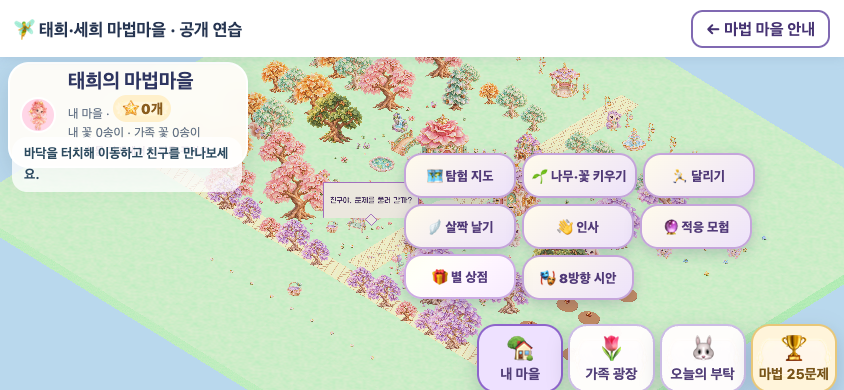
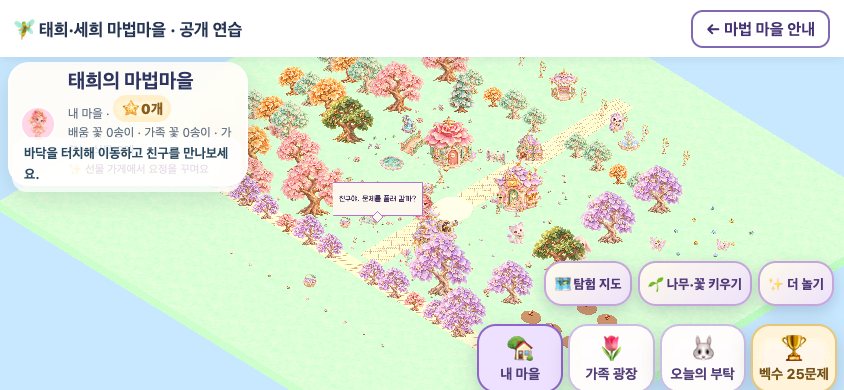
feat: simplify village controls and show garden care reactions

diff --git a/app.js b/app.js
@@ -73,7 +73,7 @@ function header(){const p=currentLearner(),w=wallet();return `<header class="hea
 function footer(){return `<footer class="footer"><span>내 속도로, 한 번의 발견씩 ✦</span><button data-action="parents">보호자 안내</button></footer>`;}
 function gameCard(g){const record=overview().games.find(r=>r.id===g.id);return `<article class="game-card ${g.subject}"><div class="game-top"><div class="game-icon" aria-hidden="true">${esc(g.emoji)}</div><span class="subject-label">${SUBJECTS[g.subject].name} · ${esc(g.levelLabel)}</span></div><h3>${esc(g.title)}</h3><p class="game-desc">${esc(g.description)}</p><p class="mode-badges">${g.modes?g.modes.map(m=>esc(ActivityUI.MODE_LABELS[m])).join(' · '):'단위와 비율'}</p>${g.kind==='external'?`<a class="game-launch" href="${esc(g.url)}" data-external="${g.id}">${record.resume?'이어서 놀기':'놀러 가기'}</a>`:`<button class="game-launch" data-action="play" data-game="${g.id}" ${loading?'disabled':''}>${record.resume?'이어서 놀기':'시작하기'}</button>`}<p class="game-progress">${record.started?`⭐ ${record.stars} · ${record.mastered}개의 발견`:`한 판 ${g.kind==='external'?5:currentLearner().roundSize}문제 · 천천히 해도 돼`}</p></article>`;}
 function recommendedAdventures(){return ['math','korean','english'].flatMap(subject=>{const rec=Growth.recommendation(subject,catalog),stage=rec.canAdvance?rec.suggestedStage:rec.stage;let list=adventures().filter(g=>g.adventure&&g.subject===subject&&g.minStage<=stage&&g.maxStage>=stage);if(!list.length)list=adventures().filter(g=>g.adventure&&g.subject===subject&&g.minStage<=stage);list.sort((a,b)=>{const pa=Progress.gameProgress(a.id),pb=Progress.gameProgress(b.id);return Number(Boolean(pb.round&&!pb.round.finished))-Number(Boolean(pa.round&&!pa.round.finished))||pa.lastPlayed-pb.lastPlayed||a.id.localeCompare(b.id);});return list.length?[list[themeOffset%list.length]]:[];});}
-function home(){let games=(showAll?adventures():recommendedAdventures()).filter(g=>(filter==='all'||g.subject===filter)&&(modeFilter==='all'||!showAll||g.modes?.includes(modeFilter)));const size=pageSize();page=Math.min(page,Math.max(0,Math.ceil(games.length/size)-1));const w=wallet(),next=AWARDS.find(a=>a.stars>w.lifetime);return `<section class="home-screen screen"><div class="section-top"><div><h1 tabindex="-1">${currentLearner().name}의 ${showAll?'놀이 보물지도':'오늘의 모험'}</h1><p class="place-line">🏡 ${esc(Settings.getSettings()[Progress.learner()].place)}에서 이어지는 놀이</p></div><button class="text-button" data-action="all-games">${showAll?'오늘의 모험':'모두 보기'}</button></div><a class="village-launch village-launch-kma" href="./magic-village-kma-v06/village/?v=20261011-garden-v07" aria-label="벡수 경시대회 공개 원본 25문항 마법마을 열기"><span class="village-launch-icon" aria-hidden="true">🏆</span><span class="village-launch-copy"><strong>${currentLearner().name}의 벡수 경시대회 마법마을</strong><small>KMA 공개 기출 · 학년별 1~25번 · 별 보상 · 탐험·나무·꽃 가꾸기 · v0.7</small></span><span class="village-launch-arrow" aria-hidden="true">↗</span></a><a class="village-launch" href="./magic-village-v06/village/?v=20261011-garden-v07" aria-label="새 마법마을 v0.7 3D 연습판 열기"><span class="village-launch-icon" aria-hidden="true">🧚</span><span class="village-launch-copy"><strong>${currentLearner().name}의 3D 마법마을</strong><small>동물 친구·별 상점·적응형 학습·나무·꽃 가꾸기 · 공개 연습 수학 25문제 · v0.7</small></span><span class="village-launch-arrow" aria-hidden="true">↗</span></a><div class="filters" aria-label="과목 고르기">${Object.entries(SUBJECTS).map(([id,s])=>`<button class="filter" data-action="filter" data-subject="${id}" aria-pressed="${filter===id}">${s.emoji} ${s.name}</button>`).join('')}</div>${showAll?`<div class="mode-select"><label for="mode-select">놀이 방법</label><select id="mode-select">${[['all','모든 놀이'],...Object.entries(ActivityUI.MODE_LABELS).filter(([id])=>adventures().some(g=>g.modes?.includes(id)))].map(([id,label])=>`<option value="${id}" ${modeFilter===id?'selected':''}>${label}</option>`).join('')}</select><span>${games.length}가지</span></div>`:''}<div class="games-grid">${games.slice(page*size,(page+1)*size).map(gameCard).join('')||'<p class="empty">다른 과목이나 놀이 방법을 골라 봐!</p>'}</div><div class="home-tools">${pages(games.length,size,page,'game-page')}${!showAll?'<button class="secondary" data-action="other-adventure">다른 모험</button>':''}<button class="secondary" data-action="growth">차근차근 배우기</button></div><button class="reward-preview-link" data-action="collection"><span>⭐ 모은 별 ${w.lifetime} · 쓸 수 있는 별 ${w.available}</span><span>${next?`다음 별자리: ${next.name}`:'내 별자리가 반짝여!'}</span></button></section>`;}
+function home(){let games=(showAll?adventures():recommendedAdventures()).filter(g=>(filter==='all'||g.subject===filter)&&(modeFilter==='all'||!showAll||g.modes?.includes(modeFilter)));const size=pageSize();page=Math.min(page,Math.max(0,Math.ceil(games.length/size)-1));const w=wallet(),next=AWARDS.find(a=>a.stars>w.lifetime);return `<section class="home-screen screen"><div class="section-top"><div><h1 tabindex="-1">${currentLearner().name}의 ${showAll?'놀이 보물지도':'오늘의 모험'}</h1><p class="place-line">🏡 ${esc(Settings.getSettings()[Progress.learner()].place)}에서 이어지는 놀이</p></div><button class="text-button" data-action="all-games">${showAll?'오늘의 모험':'모두 보기'}</button></div><a class="village-launch village-launch-kma" href="./magic-village-kma-v06/village/?v=20261011-garden-v071" aria-label="벡수 경시대회 공개 원본 25문항 마법마을 열기"><span class="village-launch-icon" aria-hidden="true">🏆</span><span class="village-launch-copy"><strong>${currentLearner().name}의 벡수 경시대회 마법마을</strong><small>KMA 공개 기출 · 학년별 1~25번 · 별 보상 · 탐험·나무·꽃 가꾸기 · v0.7</small></span><span class="village-launch-arrow" aria-hidden="true">↗</span></a><a class="village-launch" href="./magic-village-v06/village/?v=20261011-garden-v071" aria-label="새 마법마을 v0.7 3D 연습판 열기"><span class="village-launch-icon" aria-hidden="true">🧚</span><span class="village-launch-copy"><strong>${currentLearner().name}의 3D 마법마을</strong><small>동물 친구·별 상점·적응형 학습·나무·꽃 가꾸기 · 공개 연습 수학 25문제 · v0.7</small></span><span class="village-launch-arrow" aria-hidden="true">↗</span></a><div class="filters" aria-label="과목 고르기">${Object.entries(SUBJECTS).map(([id,s])=>`<button class="filter" data-action="filter" data-subject="${id}" aria-pressed="${filter===id}">${s.emoji} ${s.name}</button>`).join('')}</div>${showAll?`<div class="mode-select"><label for="mode-select">놀이 방법</label><select id="mode-select">${[['all','모든 놀이'],...Object.entries(ActivityUI.MODE_LABELS).filter(([id])=>adventures().some(g=>g.modes?.includes(id)))].map(([id,label])=>`<option value="${id}" ${modeFilter===id?'selected':''}>${label}</option>`).join('')}</select><span>${games.length}가지</span></div>`:''}<div class="games-grid">${games.slice(page*size,(page+1)*size).map(gameCard).join('')||'<p class="empty">다른 과목이나 놀이 방법을 골라 봐!</p>'}</div><div class="home-tools">${pages(games.length,size,page,'game-page')}${!showAll?'<button class="secondary" data-action="other-adventure">다른 모험</button>':''}<button class="secondary" data-action="growth">차근차근 배우기</button></div><button class="reward-preview-link" data-action="collection"><span>⭐ 모은 별 ${w.lifetime} · 쓸 수 있는 별 ${w.available}</span><span>${next?`다음 별자리: ${next.name}`:'내 별자리가 반짝여!'}</span></button></section>`;}
 
 function workbookHome(){const banks=workbooks(),available=BOOK_GRADES.filter(([id])=>banks.some(g=>g.gradeBand===id)),who=Progress.learner();if(!available.some(([id])=>id===bookGrades[who]))bookGrades[who]=available[0]?.[0];const grade=bookGrades[who],games=banks.filter(g=>g.gradeBand===grade),size=pageSize(),suggestion=Progress.workbookSuggestion(grade);bookPage=Math.min(bookPage,Math.max(0,Math.ceil(games.length/size)-1));return `<section class="screen workbook-screen"><div class="section-top"><h1 tabindex="-1">${currentLearner().name}의 수학 문제집</h1><span class="book-mark" aria-hidden="true">📚</span></div>${available.length?`<div class="grade-select"><label for="grade-select">학년 고르기</label><select id="grade-select">${available.map(([id,label])=>`<option value="${id}" ${grade===id?'selected':''}>${label}</option>`).join('')}</select><span>${games.length}권</span></div><p class="book-intro">내가 풀어 보고 싶은 문제집을 골라요. 다른 학년도 어른과 함께 살펴볼 수 있어요.</p>${suggestion?`<p class="workbook-suggestion">서로 다른 ${suggestion.distinct}문제를 꾸준히 풀었어요. 보호자와 함께 ${esc(BOOK_GRADES.find(([id])=>id===suggestion.next)?.[1])}에 도전해 볼까요? <button class="secondary" data-action="suggested-grade" data-grade="${suggestion.next}">다음 문제집 보기</button></p>`:''}<div class="games-grid">${games.slice(bookPage*size,(bookPage+1)*size).map(gameCard).join('')}</div>${pages(games.length,size,bookPage,'book-page')}`:'<p class="empty">수학 문제집을 준비하고 있어요. 오늘의 모험부터 만나 볼까요?</p><button class="primary" data-action="home">오늘의 모험</button>'}<p class="note">별은 함께 모이고, 성장 지도는 기초 놀이의 기록으로 이어져요.</p></section>`;}
 const imagePath=(q,kind)=>{const path=q?.[kind==='solution'?'solutionImage':'problemImage'];return typeof path==='string'&&/^\.\/assets\/bebsu\/math\/[a-f0-9]{16}\.png$/.test(path)?path:null;};

diff --git a/magic-village-kma-v06/village/village-ui.js b/magic-village-kma-v06/village/village-ui.js
@@ -27,12 +27,15 @@ export function createVillageUI({root, sendToUnity, sendRequest}) {
     '<aside id="vh-world-shortcuts" aria-label="마법마을 특별 장소">',
     ' <button id="vh-map" type="button" class="vh-shortcut">🗺 탐험 지도</button>',
     ' <button id="vh-garden" type="button" class="vh-shortcut">🌱 나무·꽃 키우기</button>',
+    ' <button id="vh-more" type="button" class="vh-shortcut" aria-expanded="false" aria-controls="vh-extra-tools">✨ 더 놀기</button>',
+    ' <div id="vh-extra-tools" hidden>',
     ' <button id="vh-run" type="button" class="vh-shortcut" aria-pressed="false">🏃 달리기</button>',
     ' <button id="vh-hop" type="button" class="vh-shortcut">🪽 살짝 날기</button>',
     ' <button id="vh-wave" type="button" class="vh-shortcut">👋 인사</button>',
     ' <button id="vh-adaptive" type="button" class="vh-shortcut">🔮 적응 모험</button>',
     ' <button id="vh-shop" type="button" class="vh-shortcut">🎁 별 상점</button>',
     ' <button id="vh-pose" type="button" class="vh-shortcut" aria-pressed="false">🎭 8방향 시안</button>',
+    ' </div>',
     '</aside>',
     '<p id="village-toast" role="alert" hidden></p>',
     '<div id="village-dialog-wrap" hidden aria-busy="false">',
@@ -119,6 +122,12 @@ export function createVillageUI({root, sendToUnity, sendRequest}) {
   }
 
   let careGarden=null, runActive=false;
+  function collapseTools(){ $('vh-extra-tools').hidden=true;$('vh-more').setAttribute('aria-expanded','false'); }
+  $('vh-more').addEventListener('click',()=>{
+    if(!safeExplore())return;
+    const expanded=$('vh-extra-tools').hidden;
+    $('vh-extra-tools').hidden=!expanded;$('vh-more').setAttribute('aria-expanded',String(expanded));
+  });
   const safeExplore=()=>phase==='explore'&&!busy&&root.dataset.ready==='true';
   $('vh-map').addEventListener('click',()=>{
     if(!safeExplore())return;
@@ -166,6 +175,22 @@ export function createVillageUI({root, sendToUnity, sendRequest}) {
       ui.body.append(seeds);
     } else {
       const kind=SPECIES[plant.species],finished=plant.stage>=kind.steps;
+      const scene=label('figure','','vh-growing-scene');
+      scene.setAttribute('aria-label',kind.title+' 성장 모습');
+      const visual=label('div','','vh-growing-plant');
+      const art=plant.stage===0?'seed':plant.stage===1?'sprout':plant.stage===2?'bud':null;
+      if(art){const image=document.createElement('img');image.src='./assets/'+art+'.png';image.alt='';visual.append(image);}
+      else if(['flowers_pink','flowers_sun'].includes(plant.species)){
+        const image=document.createElement('img');image.src='./assets/gameplay/'+plant.species+'.png';image.alt='';visual.append(image);
+      } else visual.textContent=kind.emoji;
+      visual.style.setProperty('--plant-scale',String(.65+.35*plant.stage/kind.steps));
+      scene.append(visual,label('figcaption',plant.stage===0?'내가 심은 씨앗':plant.stage===1?'작은 새싹':plant.stage===2?'쑥쑥 자라는 중':finished?'내가 가꾼 '+kind.title:'더 크게 자라는 '+kind.title));
+      if(data.action==='GARDEN_CARE'){
+        const effect=label('span',['💧','☀','🎵'][(plant.stage-1)%3],'vh-care-effect');
+        effect.setAttribute('aria-hidden','true');scene.append(effect);
+        scene.dataset.cared='true';
+      }
+      ui.body.append(scene);
       const progress=document.createElement('progress');progress.max=kind.steps;progress.value=plant.stage;
       progress.setAttribute('aria-label',kind.title+' 성장 '+plant.stage+'/'+kind.steps);ui.body.append(progress);
       paragraph(finished?'내가 가꾼 '+kind.title+'! 마을에서도 구경해요.':
@@ -253,6 +278,7 @@ export function createVillageUI({root, sendToUnity, sendRequest}) {
     (lastFocus?.isConnected ? lastFocus : ui.quest).focus({preventScroll:true});
   }
   function open() {
+    collapseTools();
     sendToUnity("PAUSE_EXPLORE");
     if (phase === 'explore') lastFocus = document.activeElement;
     ui.dialog.hidden = false;
@@ -844,7 +870,8 @@ export function createVillageUI({root, sendToUnity, sendRequest}) {
     }
     if(Number.isFinite(data.reinforcementStars))reinforcementStars=data.reinforcementStars;
     if (Number.isFinite(data.flowers) && Number.isFinite(data.familyFlowers)) {
-      ui.progress.textContent='내 꽃 '+data.flowers+'송이 · 가족 꽃 '+data.familyFlowers+'송이'+
+      ui.progress.textContent='배움 꽃 '+data.flowers+'송이 · 가족 꽃 '+data.familyFlowers+'송이'+
+        (data.garden?' · 가꾸는 식물 '+data.garden.plants.length+'개':'')+
         (reinforcementStars>0?' · 생각·복습 별 '+reinforcementStars+'개':'');
     }
     if(data.action.startsWith('GARDEN_'))showGarden(data);

diff --git a/magic-village-v06/village/village-ui.js b/magic-village-v06/village/village-ui.js
@@ -27,12 +27,15 @@ export function createVillageUI({root, sendToUnity, sendRequest}) {
     '<aside id="vh-world-shortcuts" aria-label="마법마을 특별 장소">',
     ' <button id="vh-map" type="button" class="vh-shortcut">🗺 탐험 지도</button>',
     ' <button id="vh-garden" type="button" class="vh-shortcut">🌱 나무·꽃 키우기</button>',
+    ' <button id="vh-more" type="button" class="vh-shortcut" aria-expanded="false" aria-controls="vh-extra-tools">✨ 더 놀기</button>',
+    ' <div id="vh-extra-tools" hidden>',
     ' <button id="vh-run" type="button" class="vh-shortcut" aria-pressed="false">🏃 달리기</button>',
     ' <button id="vh-hop" type="button" class="vh-shortcut">🪽 살짝 날기</button>',
     ' <button id="vh-wave" type="button" class="vh-shortcut">👋 인사</button>',
     ' <button id="vh-adaptive" type="button" class="vh-shortcut">🔮 적응 모험</button>',
     ' <button id="vh-shop" type="button" class="vh-shortcut">🎁 별 상점</button>',
     ' <button id="vh-pose" type="button" class="vh-shortcut" aria-pressed="false">🎭 8방향 시안</button>',
+    ' </div>',
     '</aside>',
     '<p id="village-toast" role="alert" hidden></p>',
     '<div id="village-dialog-wrap" hidden aria-busy="false">',
@@ -119,6 +122,12 @@ export function createVillageUI({root, sendToUnity, sendRequest}) {
   }
 
   let careGarden=null, runActive=false;
+  function collapseTools(){ $('vh-extra-tools').hidden=true;$('vh-more').setAttribute('aria-expanded','false'); }
+  $('vh-more').addEventListener('click',()=>{
+    if(!safeExplore())return;
+    const expanded=$('vh-extra-tools').hidden;
+    $('vh-extra-tools').hidden=!expanded;$('vh-more').setAttribute('aria-expanded',String(expanded));
+  });
   const safeExplore=()=>phase==='explore'&&!busy&&root.dataset.ready==='true';
   $('vh-map').addEventListener('click',()=>{
     if(!safeExplore())return;
@@ -166,6 +175,22 @@ export function createVillageUI({root, sendToUnity, sendRequest}) {
       ui.body.append(seeds);
     } else {
       const kind=SPECIES[plant.species],finished=plant.stage>=kind.steps;
+      const scene=label('figure','','vh-growing-scene');
+      scene.setAttribute('aria-label',kind.title+' 성장 모습');
+      const visual=label('div','','vh-growing-plant');
+      const art=plant.stage===0?'seed':plant.stage===1?'sprout':plant.stage===2?'bud':null;
+      if(art){const image=document.createElement('img');image.src='./assets/'+art+'.png';image.alt='';visual.append(image);}
+      else if(['flowers_pink','flowers_sun'].includes(plant.species)){
+        const image=document.createElement('img');image.src='./assets/gameplay/'+plant.species+'.png';image.alt='';visual.append(image);
+      } else visual.textContent=kind.emoji;
+      visual.style.setProperty('--plant-scale',String(.65+.35*plant.stage/kind.steps));
+      scene.append(visual,label('figcaption',plant.stage===0?'내가 심은 씨앗':plant.stage===1?'작은 새싹':plant.stage===2?'쑥쑥 자라는 중':finished?'내가 가꾼 '+kind.title:'더 크게 자라는 '+kind.title));
+      if(data.action==='GARDEN_CARE'){
+        const effect=label('span',['💧','☀','🎵'][(plant.stage-1)%3],'vh-care-effect');
+        effect.setAttribute('aria-hidden','true');scene.append(effect);
+        scene.dataset.cared='true';
+      }
+      ui.body.append(scene);
       const progress=document.createElement('progress');progress.max=kind.steps;progress.value=plant.stage;
       progress.setAttribute('aria-label',kind.title+' 성장 '+plant.stage+'/'+kind.steps);ui.body.append(progress);
       paragraph(finished?'내가 가꾼 '+kind.title+'! 마을에서도 구경해요.':
@@ -253,6 +278,7 @@ export function createVillageUI({root, sendToUnity, sendRequest}) {
     (lastFocus?.isConnected ? lastFocus : ui.quest).focus({preventScroll:true});
   }
   function open() {
+    collapseTools();
     sendToUnity("PAUSE_EXPLORE");
     if (phase === 'explore') lastFocus = document.activeElement;
     ui.dialog.hidden = false;
@@ -844,7 +870,8 @@ export function createVillageUI({root, sendToUnity, sendRequest}) {
     }
     if(Number.isFinite(data.reinforcementStars))reinforcementStars=data.reinforcementStars;
     if (Number.isFinite(data.flowers) && Number.isFinite(data.familyFlowers)) {
-      ui.progress.textContent='내 꽃 '+data.flowers+'송이 · 가족 꽃 '+data.familyFlowers+'송이'+
+      ui.progress.textContent='배움 꽃 '+data.flowers+'송이 · 가족 꽃 '+data.familyFlowers+'송이'+
+        (data.garden?' · 가꾸는 식물 '+data.garden.plants.length+'개':'')+
         (reinforcementStars>0?' · 생각·복습 별 '+reinforcementStars+'개':'');
     }
     if(data.action.startsWith('GARDEN_'))showGarden(data);

diff --git a/magic-village-kma-v06/village/major-patch.css b/magic-village-kma-v06/village/major-patch.css
@@ -256,3 +256,20 @@
 .vh-garden-care .vh-garden-slot {flex:1;}
 [data-mode="garden"] progress {width:100%;height:22px;accent-color:#63965f;}
 @media(max-width:480px) {#vh-world-shortcuts{max-width:calc(100% - 20px);bottom:94px;} #vh-world-shortcuts .vh-shortcut{font-size:12px;padding:7px 9px;min-height:44px;}}
+
+/* Keep exploration visible; optional play tools open above the compact row. */
+#vh-world-shortcuts{max-width:430px;left:auto;right:10px;top:auto;bottom:100px;}
+#vh-extra-tools{position:absolute;bottom:calc(100% + 8px);right:0;display:grid;grid-template-columns:repeat(2,minmax(0,1fr));gap:8px;width:260px;padding:10px;border:2px solid #b5a0cd;border-radius:18px;background:#fff8edf5;box-shadow:0 8px 22px #36427144;}
+#vh-extra-tools[hidden]{display:none!important;}
+#vh-world-shortcuts>.vh-shortcut{min-width:0;}
+.vh-growing-scene{position:relative;overflow:hidden;display:flex;flex-direction:column;align-items:center;justify-content:center;min-height:154px;margin:12px 0;padding:10px;border-radius:22px;background:radial-gradient(ellipse at 50% 10%,#fffde0,#dbf1cd 70%);border:2px solid #a7c696;}
+.vh-growing-plant{display:flex;align-items:center;justify-content:center;height:110px;font-size:82px;transform:scale(var(--plant-scale));transform-origin:bottom center;}
+.vh-growing-plant img{width:110px;height:110px;object-fit:contain;}
+.vh-growing-scene figcaption{font-size:15px;font-weight:800;color:#31593e;}
+.vh-care-effect{position:absolute;top:15px;right:24%;font-size:36px;animation:vh-care-gift 1.4s ease-out both;}
+.vh-growing-scene[data-cared="true"] .vh-growing-plant{animation:vh-care-bounce .8s ease-out;}
+@keyframes vh-care-gift{0%{opacity:0;transform:translateY(-14px) scale(.6)}35%{opacity:1}100%{opacity:.8;transform:translateY(20px) scale(1.1)}}
+@keyframes vh-care-bounce{40%{transform:scale(calc(var(--plant-scale) * 1.12)) rotate(5deg)}}
+@media(max-width:480px){#vh-world-shortcuts{left:10px;right:10px;max-width:none;bottom:94px;justify-content:flex-end;}#vh-world-shortcuts>.vh-shortcut{flex:1;padding:7px 5px;}#vh-extra-tools{max-width:calc(100vw - 20px);}}
+@media(max-height:590px) and (orientation:landscape){#vh-world-shortcuts{bottom:94px;top:auto;}#vh-extra-tools{grid-template-columns:repeat(3,minmax(0,1fr));width:390px;}}
+@media(prefers-reduced-motion:reduce){.vh-care-effect,.vh-growing-scene[data-cared="true"] .vh-growing-plant{animation:none;}}

diff --git a/magic-village-v06/village/major-patch.css b/magic-village-v06/village/major-patch.css
@@ -256,3 +256,20 @@
 .vh-garden-care .vh-garden-slot {flex:1;}
 [data-mode="garden"] progress {width:100%;height:22px;accent-color:#63965f;}
 @media(max-width:480px) {#vh-world-shortcuts{max-width:calc(100% - 20px);bottom:94px;} #vh-world-shortcuts .vh-shortcut{font-size:12px;padding:7px 9px;min-height:44px;}}
+
+/* Keep exploration visible; optional play tools open above the compact row. */
+#vh-world-shortcuts{max-width:430px;left:auto;right:10px;top:auto;bottom:100px;}
+#vh-extra-tools{position:absolute;bottom:calc(100% + 8px);right:0;display:grid;grid-template-columns:repeat(2,minmax(0,1fr));gap:8px;width:260px;padding:10px;border:2px solid #b5a0cd;border-radius:18px;background:#fff8edf5;box-shadow:0 8px 22px #36427144;}
+#vh-extra-tools[hidden]{display:none!important;}
+#vh-world-shortcuts>.vh-shortcut{min-width:0;}
+.vh-growing-scene{position:relative;overflow:hidden;display:flex;flex-direction:column;align-items:center;justify-content:center;min-height:154px;margin:12px 0;padding:10px;border-radius:22px;background:radial-gradient(ellipse at 50% 10%,#fffde0,#dbf1cd 70%);border:2px solid #a7c696;}
+.vh-growing-plant{display:flex;align-items:center;justify-content:center;height:110px;font-size:82px;transform:scale(var(--plant-scale));transform-origin:bottom center;}
+.vh-growing-plant img{width:110px;height:110px;object-fit:contain;}
+.vh-growing-scene figcaption{font-size:15px;font-weight:800;color:#31593e;}
+.vh-care-effect{position:absolute;top:15px;right:24%;font-size:36px;animation:vh-care-gift 1.4s ease-out both;}
+.vh-growing-scene[data-cared="true"] .vh-growing-plant{animation:vh-care-bounce .8s ease-out;}
+@keyframes vh-care-gift{0%{opacity:0;transform:translateY(-14px) scale(.6)}35%{opacity:1}100%{opacity:.8;transform:translateY(20px) scale(1.1)}}
+@keyframes vh-care-bounce{40%{transform:scale(calc(var(--plant-scale) * 1.12)) rotate(5deg)}}
+@media(max-width:480px){#vh-world-shortcuts{left:10px;right:10px;max-width:none;bottom:94px;justify-content:flex-end;}#vh-world-shortcuts>.vh-shortcut{flex:1;padding:7px 5px;}#vh-extra-tools{max-width:calc(100vw - 20px);}}
+@media(max-height:590px) and (orientation:landscape){#vh-world-shortcuts{bottom:94px;top:auto;}#vh-extra-tools{grid-template-columns:repeat(3,minmax(0,1fr));width:390px;}}
+@media(prefers-reduced-motion:reduce){.vh-care-effect,.vh-growing-scene[data-cared="true"] .vh-growing-plant{animation:none;}}

diff --git a/magic-village-v06/village/index.html b/magic-village-v06/village/index.html
@@ -22,8 +22,8 @@ button:disabled{opacity:.5;cursor:wait}button:focus-visible,a:focus-visible{outl
 #bar{height:100%;width:0;background:#8663c2;transition:width .25s}
 @media (max-width:420px){header strong{font-size:15px}header a{font-size:13px;padding:8px}}
 </style>
-<link rel="stylesheet" href="./village-ui.css?v=20261011-garden-v07">
-<link rel="stylesheet" href="./major-patch.css?v=20261011-garden-v07">
+<link rel="stylesheet" href="./village-ui.css?v=20261011-garden-v071">
+<link rel="stylesheet" href="./major-patch.css?v=20261011-garden-v071">
 </head>
 <body>
 <div id="page">
@@ -47,8 +47,8 @@ button:disabled{opacity:.5;cursor:wait}button:focus-visible,a:focus-visible{outl
   </main>
 </div>
 <script type="module">
-import { createVillageHost } from './village-bridge.js?v=20261011-garden-v07';
-import { createVillageUI } from './village-ui.js?v=20261011-garden-v07';
+import { createVillageHost } from './village-bridge.js?v=20261011-garden-v071';
+import { createVillageUI } from './village-ui.js?v=20261011-garden-v071';
 
 const status = document.querySelector('#status');
 const overlay = document.querySelector('#loading');
@@ -88,7 +88,7 @@ window.SparkleVillageBridge = {handle: raw => host.handle(raw)};
 
 async function discoverBuild() {
   for (const name of ['WebGL', 'sparkle-fairy-village']) {
-    const loaderUrl = './Build/' + name + '.loader.js?v=20261011-garden-v072';
+    const loaderUrl = './Build/' + name + '.loader.js?v=20261011-garden-v0712';
     try {
       const result = await fetch(loaderUrl, {method:'HEAD', cache:'no-store'});
       if (result.ok) return {name, loaderUrl};
@@ -126,9 +126,9 @@ start.addEventListener('click', async () => {
     const suffix=compressed ? '.unityweb' : '';
     canvas.style.display = 'block';
     instance = await createUnityInstance(canvas, {
-      dataUrl: base + '.data' + suffix + '?v=20261011-garden-v072',
-      frameworkUrl: base + '.framework.js' + suffix + '?v=20261011-garden-v072',
-      codeUrl: base + '.wasm' + suffix + '?v=20261011-garden-v072',
+      dataUrl: base + '.data' + suffix + '?v=20261011-garden-v0712',
+      frameworkUrl: base + '.framework.js' + suffix + '?v=20261011-garden-v0712',
+      codeUrl: base + '.wasm' + suffix + '?v=20261011-garden-v0712',
       streamingAssetsUrl: 'StreamingAssets',
       companyName: 'Family Learning',
       productName: 'Sparkle Fairy Village',

diff --git a/magic-village-kma-v06/village/index.html b/magic-village-kma-v06/village/index.html
@@ -22,8 +22,8 @@ button:disabled{opacity:.5;cursor:wait}button:focus-visible,a:focus-visible{outl
 #bar{height:100%;width:0;background:#8663c2;transition:width .25s}
 @media (max-width:420px){header strong{font-size:15px}header a{font-size:13px;padding:8px}}
 </style>
-<link rel="stylesheet" href="./village-ui.css?v=20261011-garden-v07">
-<link rel="stylesheet" href="./major-patch.css?v=20261011-garden-v07">
+<link rel="stylesheet" href="./village-ui.css?v=20261011-garden-v071">
+<link rel="stylesheet" href="./major-patch.css?v=20261011-garden-v071">
 </head>
 <body>
 <div id="page">
@@ -47,8 +47,8 @@ button:disabled{opacity:.5;cursor:wait}button:focus-visible,a:focus-visible{outl
   </main>
 </div>
 <script type="module">
-import { createVillageHost } from './village-bridge.js?v=20261011-garden-v07';
-import { createVillageUI } from './village-ui.js?v=20261011-garden-v07';
+import { createVillageHost } from './village-bridge.js?v=20261011-garden-v071';
+import { createVillageUI } from './village-ui.js?v=20261011-garden-v071';
 
 const status = document.querySelector('#status');
 const overlay = document.querySelector('#loading');
@@ -88,7 +88,7 @@ window.SparkleVillageBridge = {handle: raw => host.handle(raw)};
 
 async function discoverBuild() {
   for (const name of ['WebGL', 'sparkle-fairy-village']) {
-    const loaderUrl = './Build/' + name + '.loader.js?v=20261011-garden-v07';
+    const loaderUrl = './Build/' + name + '.loader.js?v=20261011-garden-v071';
     try {
       const result = await fetch(loaderUrl, {method:'HEAD', cache:'no-store'});
       if (result.ok) return {name, loaderUrl};
@@ -126,9 +126,9 @@ start.addEventListener('click', async () => {
     const suffix=compressed ? '.unityweb' : '';
     canvas.style.display = 'block';
     instance = await createUnityInstance(canvas, {
-      dataUrl: base + '.data' + suffix + '?v=20261011-garden-v07',
-      frameworkUrl: base + '.framework.js' + suffix + '?v=20261011-garden-v07',
-      codeUrl: base + '.wasm' + suffix + '?v=20261011-garden-v07',
+      dataUrl: base + '.data' + suffix + '?v=20261011-garden-v071',
+      frameworkUrl: base + '.framework.js' + suffix + '?v=20261011-garden-v071',
+      codeUrl: base + '.wasm' + suffix + '?v=20261011-garden-v071',
       streamingAssetsUrl: 'StreamingAssets',
       companyName: 'Family Learning',
       productName: 'Sparkle Fairy Village',

diff --git a/docs/CHILD_FEEDBACK_V07.md b/docs/CHILD_FEEDBACK_V07.md
@@ -140,3 +140,31 @@
 - `/Users/01chungee10/Github/sparkle-fairy-village-feedback-v07/Builds/WebGL/Build/WebGL.loader.js`
 - `/Users/01chungee10/Github/sparkle-fairy-village/Assets/Editor/VillageEditorBuild.cs`
 - `/Users/01chungee10/Github/sparkle-fairy-village/Assets/Editor/VillageMajorPatchAudit.cs`
+
+## v0.7.1 후속 개선
+
+- 지도·정원·더 놀기만 한 줄로 표시하고 동작·상점 버튼은 펼쳐서 사용합니다.
+- 정원 창에 씨앗→새싹→성장 모습을 표시하고 돌봄 직후 물·햇빛·음표 반응을 보여줍니다.
+- 배움 꽃과 가꾸는 식물 수를 구분합니다.
+- 세로 390×844, 가로 844×390 실제 WebGL 브라우저 검사 각각 16개 통과. 나무 6단계 성장·재접속 저장·가족 정원 분리·44px 터치 크기를 확인했습니다. 상태 검사 25개 통과. 삼성 실기기 검사는 미실시.
+- Unity 월드의 기존 성장 반영은 유지하며, 이번 돌봄 애니메이션은 정원 창에 추가되었습니다.
+
+작업 경로: `/Users/01chungee10/Github/sparkle-learning-feedback-v07`
+
+```text
+magic-village-{kma-v06,v06}/village/
+  index.html
+  village-ui.js
+  major-patch.css
+scripts/
+  check-care-garden.mjs
+  child-feedback-browser-qa.mjs
+docs/child-feedback-qa/
+  *-world.png
+  *-grown-tree.png
+  *-grown-flower.png
+  *-garden-world.png
+  results.json
+```
+
+변경된 전체 파일의 절대 경로와 해시는 `CHILD_FEEDBACK_V071_FILE_MANIFEST.json`에 기록했습니다.
